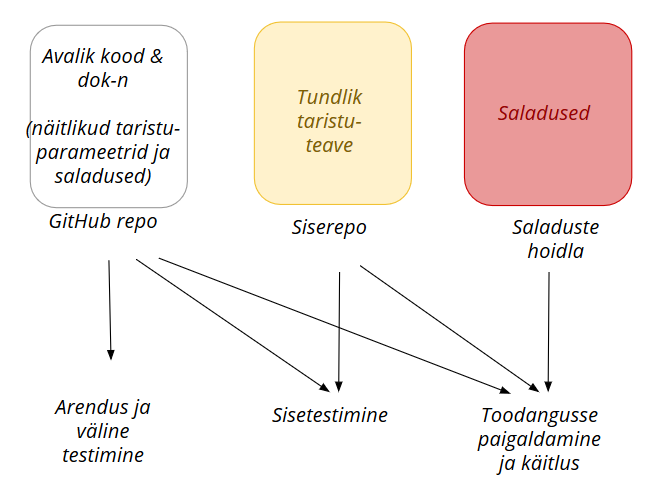
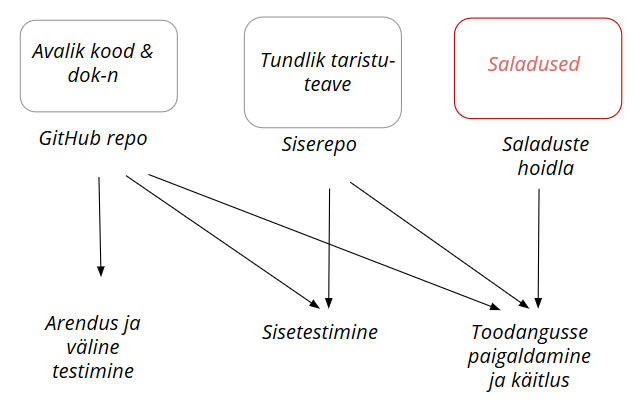
+

diff --git a/docs/index.md b/docs/index.md
@@ -191,7 +191,7 @@ Monoliitrakenduses ei ole komponentidevahelise andmeedastuse turvamine probleem.
 µT-l peaks olema HTTPS võimekus.
 {: .adv}
 
-### 1.4.8 Tundliku taristuteabe ja saladuste kaitse
+#### 1.4.8 Tundliku taristuteabe ja saladuste kaitse
 
 Avaarenduse (_open source_) kasud on nii arvukad ja suured, et avaarendus peaks olema eelistatud arendusmudel. Siiski on ka avaarenduses teavet, millele juurdepääsu on vaja piirata.
 
@@ -200,6 +200,7 @@ Avaarenduse (_open source_) kasud on nii arvukad ja suured, et avaarendus peaks 
 - IP-aadressid
 - pordid
 - kasutajanimed
+- tundlik dokumentatsioon, nt erilisi turvameetmeid konkreetselt kirjeldavad paigaldusjuhendid.
 
 Tundlikku taristuteavet on raske piiritleda, sest siin põrkuvad mitu üksteisega vastukäivat turvaprintsiipi.
 
@@ -213,8 +214,14 @@ Tundlikku taristuteavet on raske piiritleda, sest siin põrkuvad mitu üksteiseg
 
 Praktikas tuleb neid printsiipe ühitada. Eriti kui arvestada, et süsteem peab olema ka kasutatav ja turvameetmete rakendamise eelarve ei ole piiramatu.
 
-<p style='text-align:center;'><img src='img/Arhi.PNG' width= "500"></p>
+Soovitada võiks järgmisi elemente (vt illustreeriv joonis):
 
+<p style='text-align:center;'><img src='img/SALADUSED.PNG' width= "500"></p>
+
+- Avalikus koodis ja dokumentatsioonis on tundlikud taristuparameetrid ja saladused asendatud näiteväärtustega, nt `changeit`.
+- Näiteväärtusi ei kasutata toodangus
+- tundlik taristuteave on organisatsiooni siserepos (dokumendi- v koodirepos või mõlemas)
+- saladuste hoidmiseks on oma kord ja tehniline lahendus.
 
 ### 1.5 "It works on my machine!"
 
